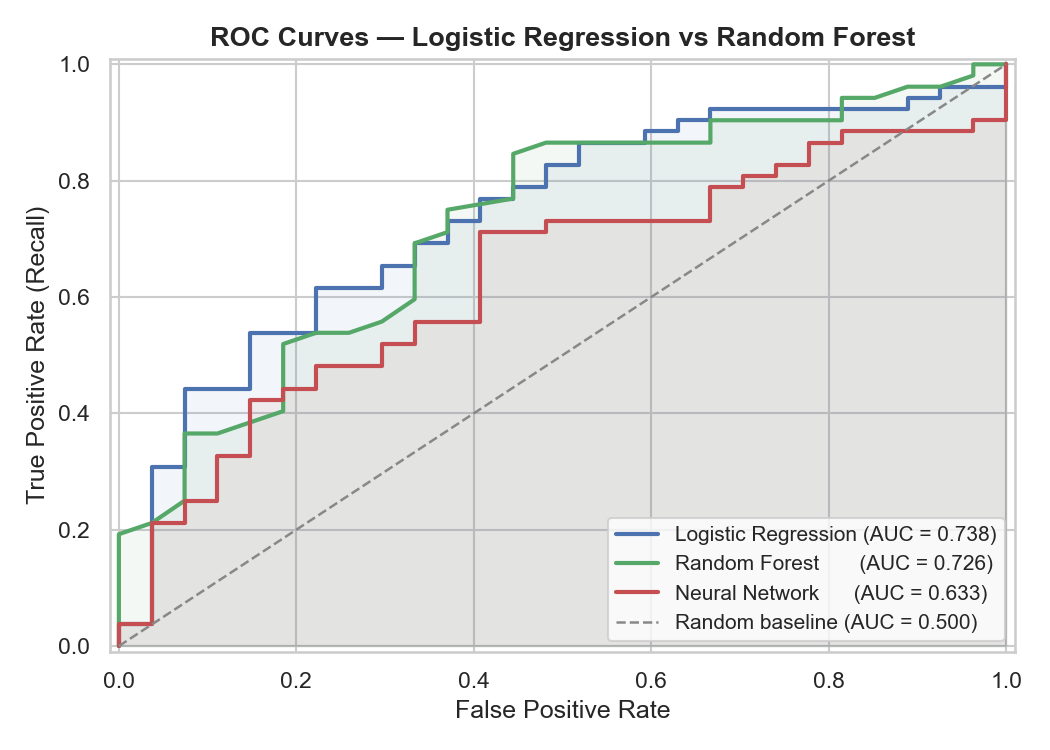
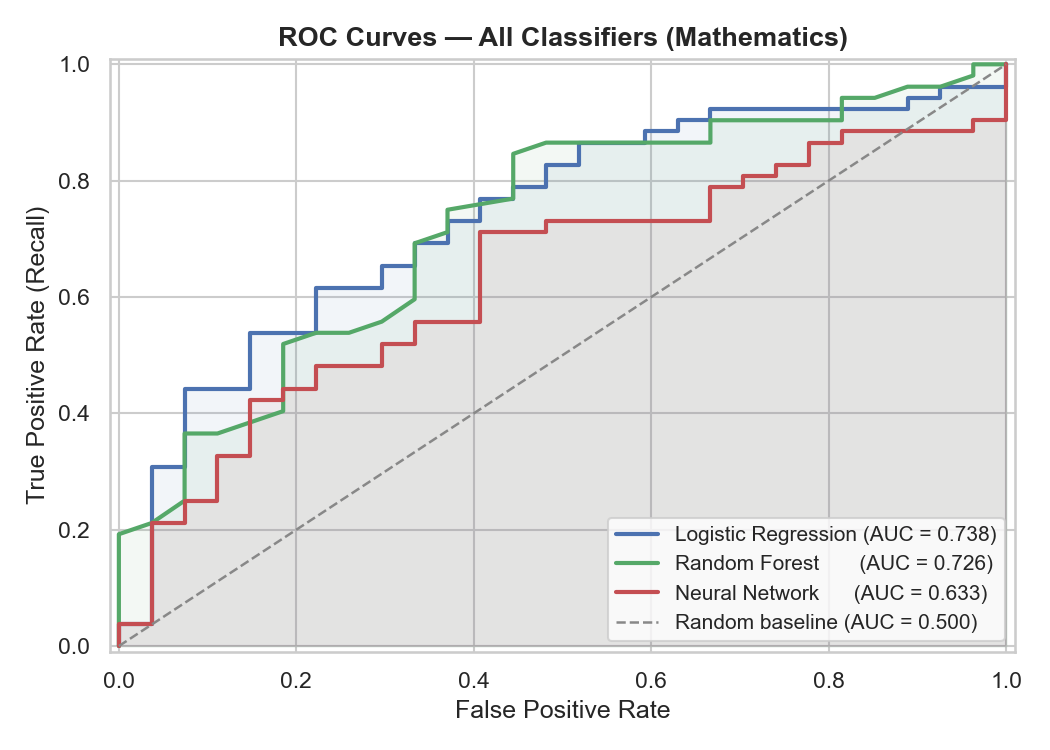
uploaded the corresponding CSV files and plots

Changed region(s): [[0.1829, 0.0307, 0.8838, 0.0613]]

diff --git a/scripts/mat_phase5_evaluation.py b/scripts/mat_phase5_evaluation.py
@@ -3,7 +3,7 @@
 # Phase 5: Evaluation & Thesis Conclusion
 # =============================================================================
 # Run this AFTER all previous phases.
-# Make sure student_mat_preprocessed.csv and student-mat.csv are in the same folder.
+# Make sure student_preprocessed.csv and student-mat.csv are in the same folder.
 #
 # This script:
 #   1. Re-trains all three models (self-contained — no need to re-run Phase 4)
@@ -206,7 +206,7 @@ ax.plot([0, 1], [0, 1], color="#888888", linestyle="--",
 ax.fill_between(fpr_log, tpr_log, alpha=0.07, color="#4C72B0")
 ax.fill_between(fpr_rf,  tpr_rf,  alpha=0.07, color="#55A868")
 ax.fill_between(fpr_nn,  tpr_nn,  alpha=0.07, color="#C44E52")
-ax.set_title("ROC Curves — Logistic Regression vs Random Forest",
+ax.set_title("ROC Curves — All Classifiers (Mathematics)",
              fontsize=13, fontweight="bold")
 ax.set_xlabel("False Positive Rate", fontsize=12)
 ax.set_ylabel("True Positive Rate (Recall)", fontsize=12)
@@ -214,7 +214,7 @@ ax.legend(fontsize=10)
 ax.set_xlim(-0.01, 1.01)
 ax.set_ylim(-0.01, 1.01)
 plt.tight_layout()
-plt.savefig("../plots/++mat_plot11_roc_curves.png")
+plt.savefig("../plots/mat_plot11_roc_curves.png")
 plt.show()
 print("Plot 11 saved: ../plots/mat_plot11_roc_curves.png")
 
@@ -405,3 +405,4 @@ print("  ../plots/mat_plot11_roc_curves.png")
 print("  ../plots/mat_plot12_precision_recall.png")
 print("  ../results/mat_results_final_report.csv")
 print()
+print("All 5 Math phases complete. Your thesis pipeline is finished.")

diff --git a/scripts/mat_phase1_data_setup.py b/scripts/mat_phase1_data_setup.py
@@ -12,7 +12,6 @@ import numpy as np
 # The dataset comes in two files:
 #   student-mat.csv  → Math course
 #   student-por.csv  → Portuguese language course
-# We will work with the Math dataset for this thesis.
 
 
 df = pd.read_csv("../data/student-mat.csv", sep=";")
@@ -124,8 +123,7 @@ print(f"Feature columns:\n{feature_cols}")
 print()
 
 # ── 8. SAVE PREPROCESSED DATA ─────────────────────────────────────────────────
-# Save the encoded dataframe so we can reuse it in later phases
-# without repeating all the preprocessing steps.
+
 
 df_encoded.to_csv("../data/student_mat_preprocessed.csv", index=False)
 

diff --git a/scripts/mat_phase4_ML_models.py b/scripts/mat_phase4_ML_models.py
@@ -57,6 +57,9 @@ LABELS = {
     "Walc":       "Weekend Alcohol Consumption",
     "health":     "Current Health Status",
     "absences":   "Number of Absences",
+    "paid_yes":   "Extra paid classes",
+    "higher":     "Wants higher education",
+    "schoolsup_yes": "Extra educational support"
 }
 
 # ── DEFINE FEATURES AND TARGETS ───────────────────────────────────────────────

diff --git a/scripts/por_phase1_data_setup.py b/scripts/por_phase1_data_setup.py
@@ -18,7 +18,6 @@ os.makedirs("../results", exist_ok=True)
 
 # ── 1. LOAD THE DATA ──────────────────────────────────────────────────────────
 # Portuguese language dataset — 649 students, same 33-variable structure as Math.
-# The separator in these CSV files is a semicolon (;), not a comma.
 
 df = pd.read_csv("../data/student-por.csv", sep=";")
 
